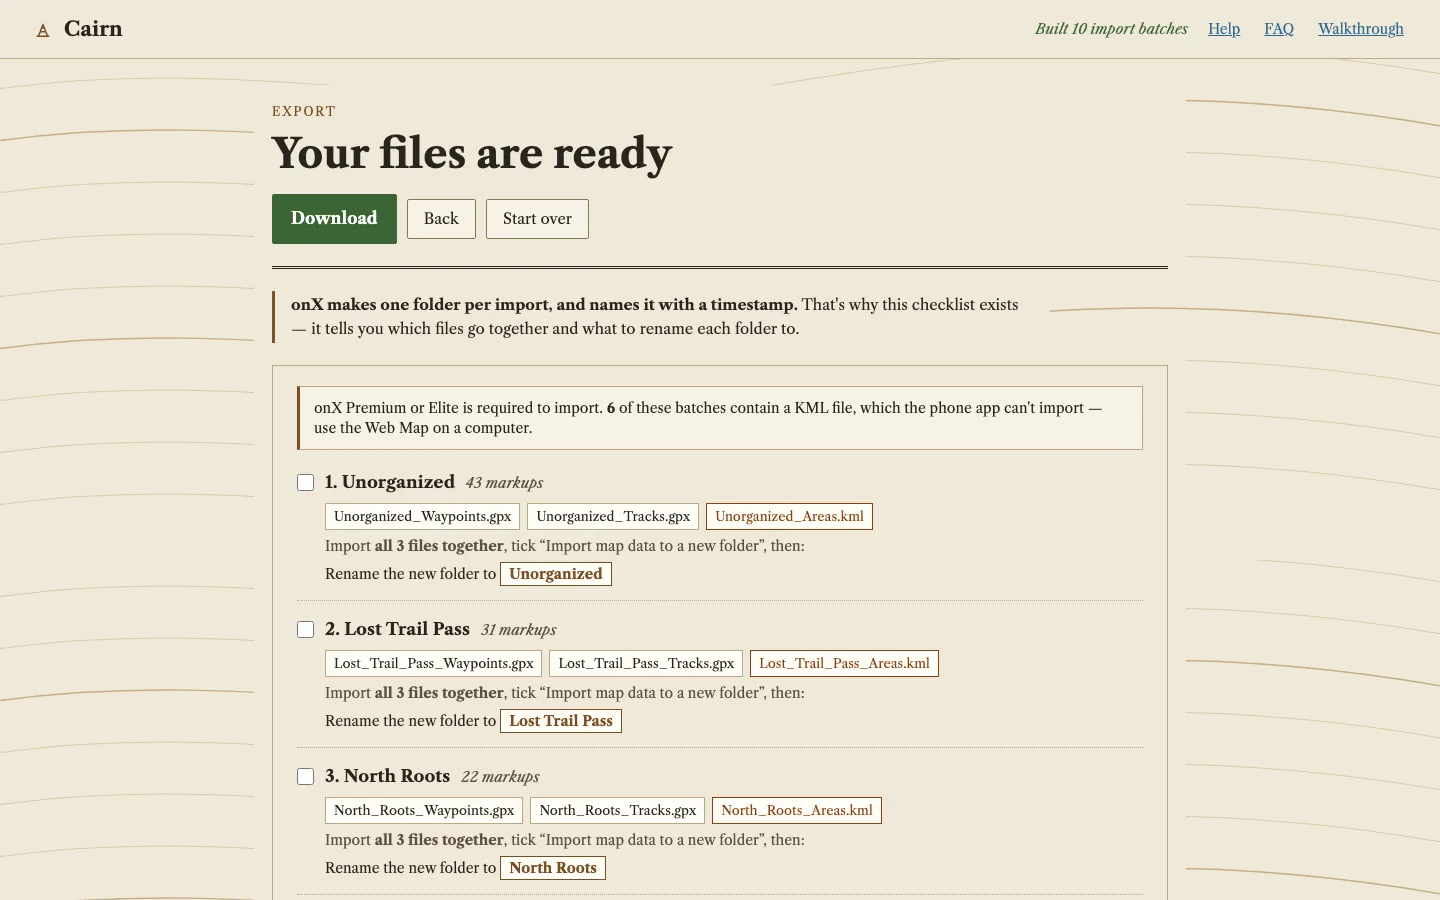
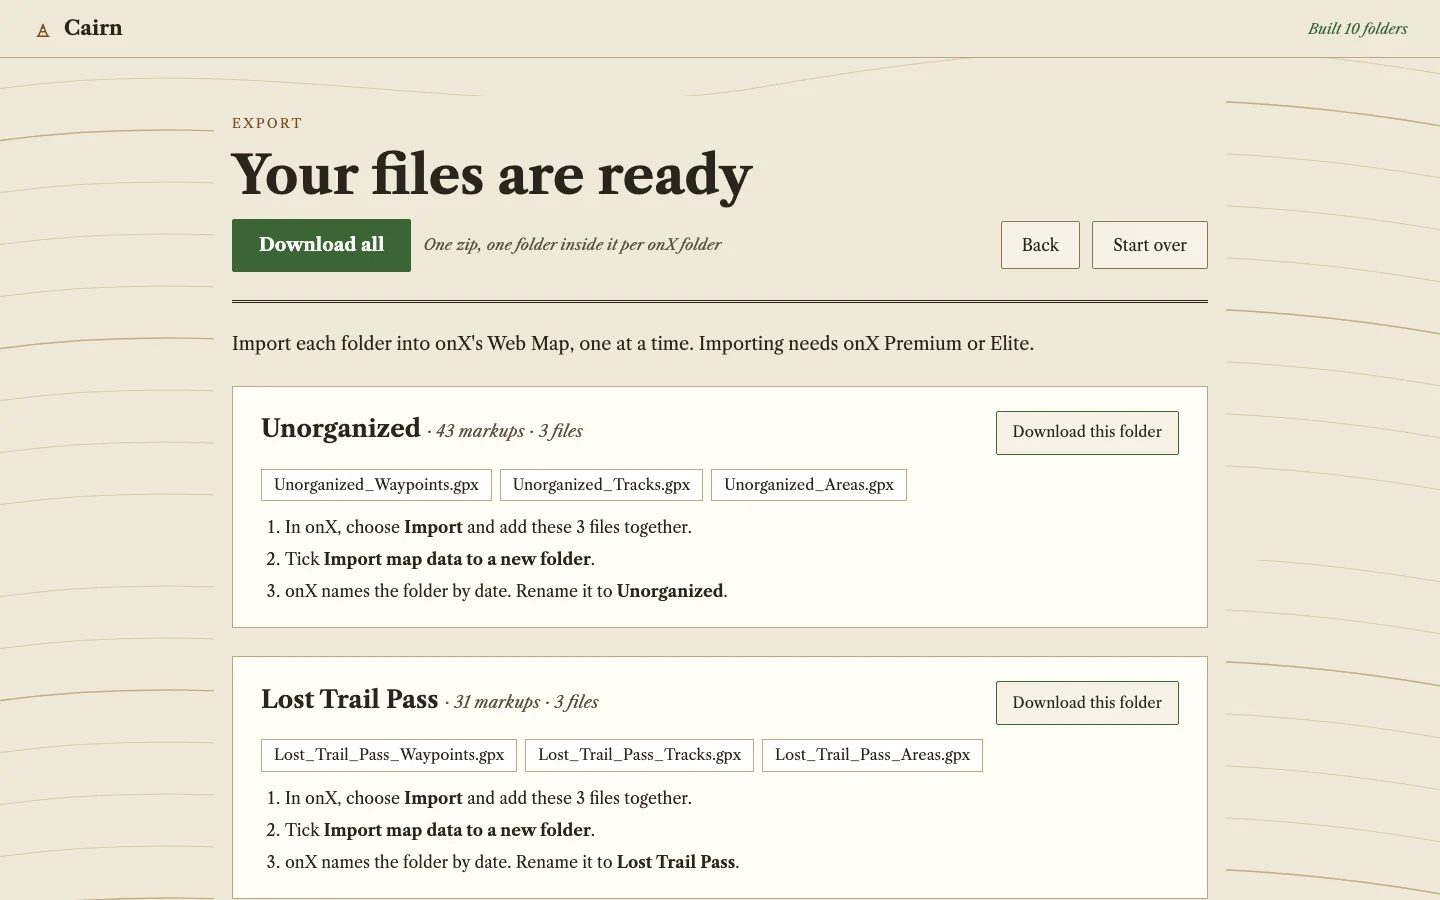
docs: walkthrough shows the new export screen; AGENTS.md baseline 1069
Claude-Session: https://claude.ai/code/session_019BuYxNAfXvJtTFx663jVwh

diff --git a/web/walkthrough.html b/web/walkthrough.html
@@ -105,12 +105,12 @@
 
     <section class="wt-step" id="import">
       <span class="step-tag">What you import</span>
-      <h2>Ten imports, in order, with a checklist</h2>
-      <p>onX makes one folder per import and names it with a timestamp, so Cairn gives you one set of files per CalTopo
-        folder and a runbook saying which files go together and what to rename each new folder to. Lines go out as GPX
-        tracks and areas as KML.</p>
-      <figure class="wt-fig"><img src="walkthrough/06-export.webp" width="1440" height="900" alt="The export screen: 10 import batches listed with their files and the folder name to rename each to">
-        <figcaption>The export screen. Download one zip, then work down the checklist.</figcaption></figure>
+      <h2>Ten imports, one per folder</h2>
+      <p>onX makes one folder per import and names it by date, so Cairn gives you one set of files per CalTopo
+        folder, with three steps for each: which files to add together, the new-folder box to tick, and the name to
+        rename the folder to. Lines go out as GPX tracks and areas as onX areas in GPX.</p>
+      <figure class="wt-fig"><img src="walkthrough/06-export.webp" width="1440" height="900" alt="The export screen: Download all, then one box per folder with its files, three import steps and a Download this folder button">
+        <figcaption>The export screen. Download all in one zip, or one folder at a time.</figcaption></figure>
       <div class="wt-pair">
         <div class="wt-ph"><strong>onX screenshot needed</strong><b>The import dialog with a Cairn batch</b>
           <span>See docs/research/ONX_REIMPORT_AND_SHARING_2026-10-22.md.</span></div>

diff --git a/AGENTS.md b/AGENTS.md
@@ -35,8 +35,8 @@ Never invoke `pytest` / `python` bare — always `uv run`. See `.cursor/rules/uv
 coverage table. On a narrow run that table is meaningless (it reports the whole package as mostly
 uncovered). Add `--no-cov` for narrow runs, and only trust coverage numbers from a full-suite run.
 
-Baseline as of 2026-10-23 (area fidelity + track passthrough, after PR #41's 1028): **1060 passed** with the web dev server up; without
-it the 102 `tests/web` tests skip, giving **958 passed, 102 skipped**. (2026-10-22 was 892; 2026-10-21 was 568; the
+Baseline as of 2026-10-23 (export screen UI-31, after area fidelity's 1060): **1069 passed** with the web dev server up; without
+it the 106 `tests/web` tests skip, giving **963 passed, 106 skipped**. (2026-10-22 was 892; 2026-10-21 was 568; the
 drop from 686 before that was the CLI/TUI test removal.) (`web/bridge.py` writes to `/tmp`, so its tests need that writable.)
 If you see a different pass count, something changed — find out what before proceeding.
 

diff --git a/docs/testing/FOLDERS_RELEASE.md b/docs/testing/FOLDERS_RELEASE.md
@@ -59,6 +59,10 @@ Screenshots (gitignored): `tests/output/export-screen/` — `bitterroots.png`,
 `bitterroots_end.png`, `bitterroots_full.png`, `one_folder.png`, `onx_pair.png`,
 `warnings.png`. They match the mockup apart from the page's contour background (UI-20).
 
+`web/walkthrough/06-export.webp` is replaced with the new Bitterroots export screen (from
+`bitterroots.png`, `cwebp -q 82`) and its walkthrough text updated. Still showing the old screen:
+`docs/screenshots/web-07-runbook.png` in README.md (follow-up).
+
 ### For the owner to check
 
 - [ ] Download all, then import one folder's files in onX's Web Map following the three steps.
